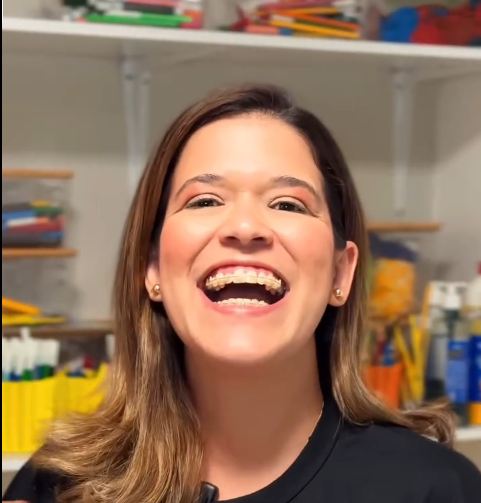
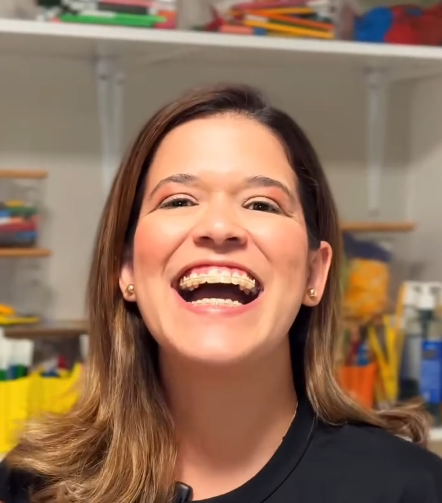
Change photos in carousel

diff --git a/src/components/Hero.tsx b/src/components/Hero.tsx
@@ -28,7 +28,7 @@ export const Hero: React.FC = () => {
       description: "",
     },
     {
-      src: "/images/hero/hero-3.png", // You'll need to add this image
+      src: "/images/hero/hero-4.jpeg", // You'll need to add this image
       alt: "Instalações modernas da Cultura Inglesa Teresina",
       title: "",
       description: "",
